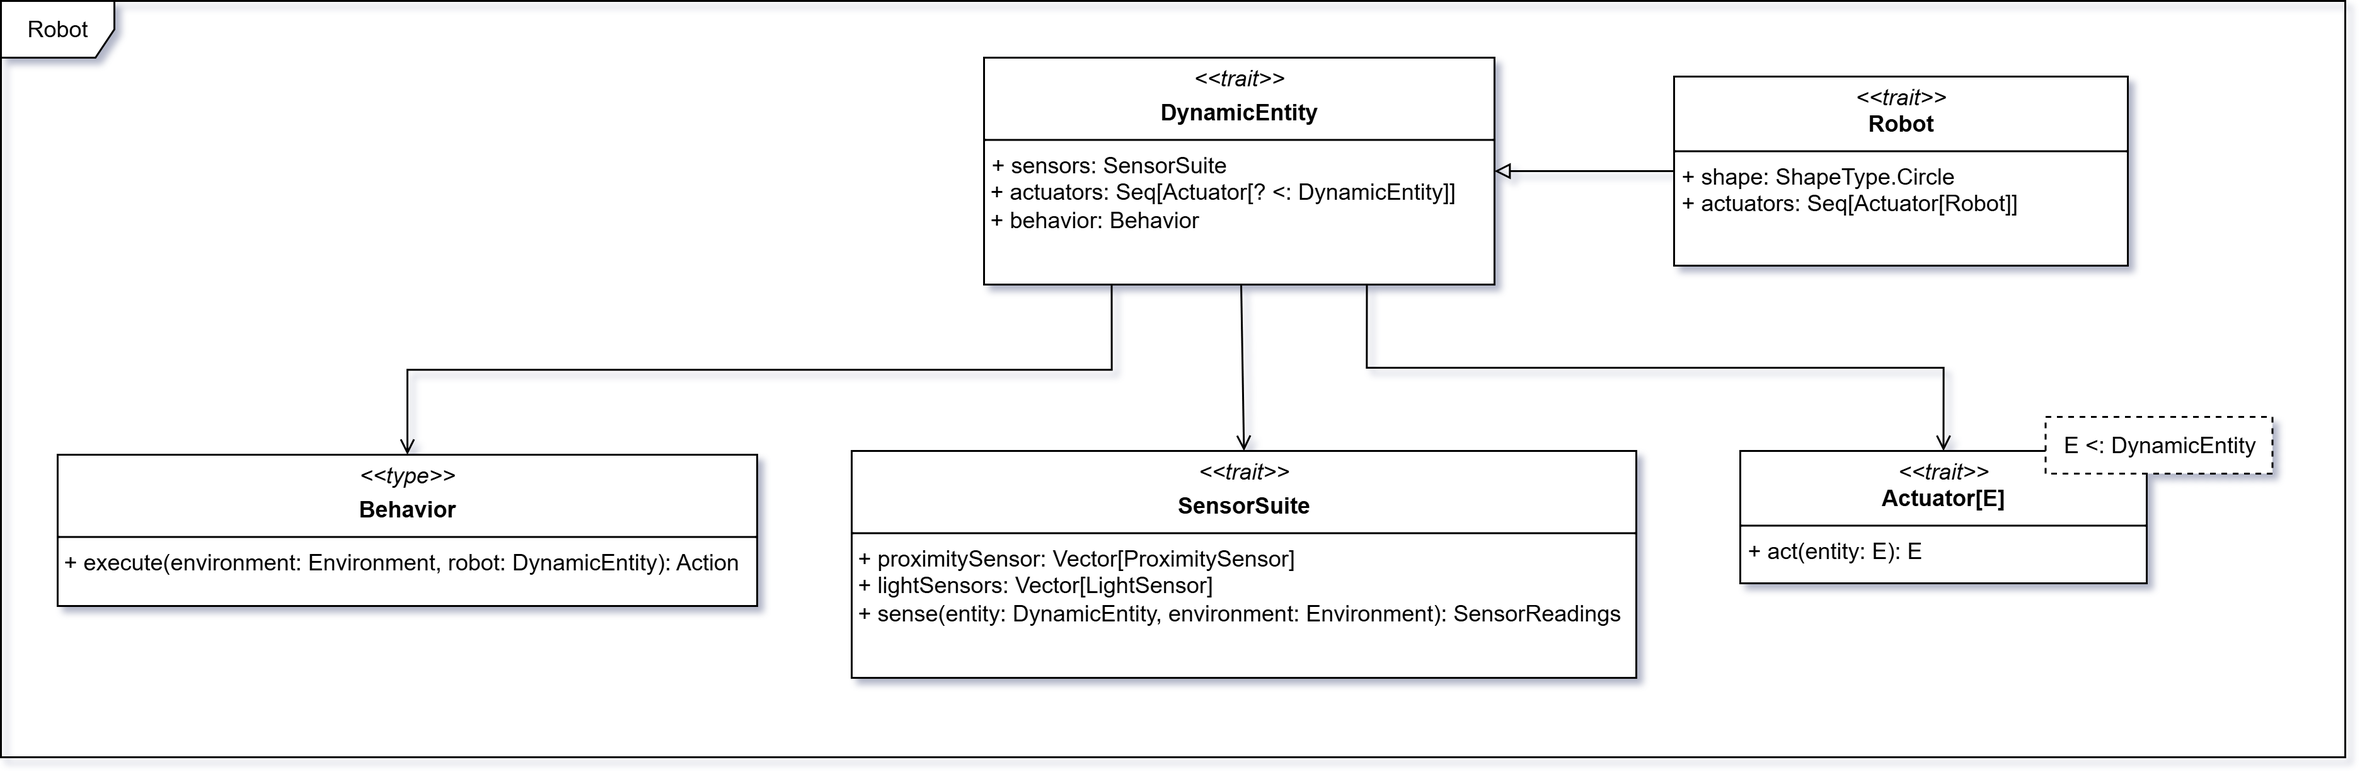
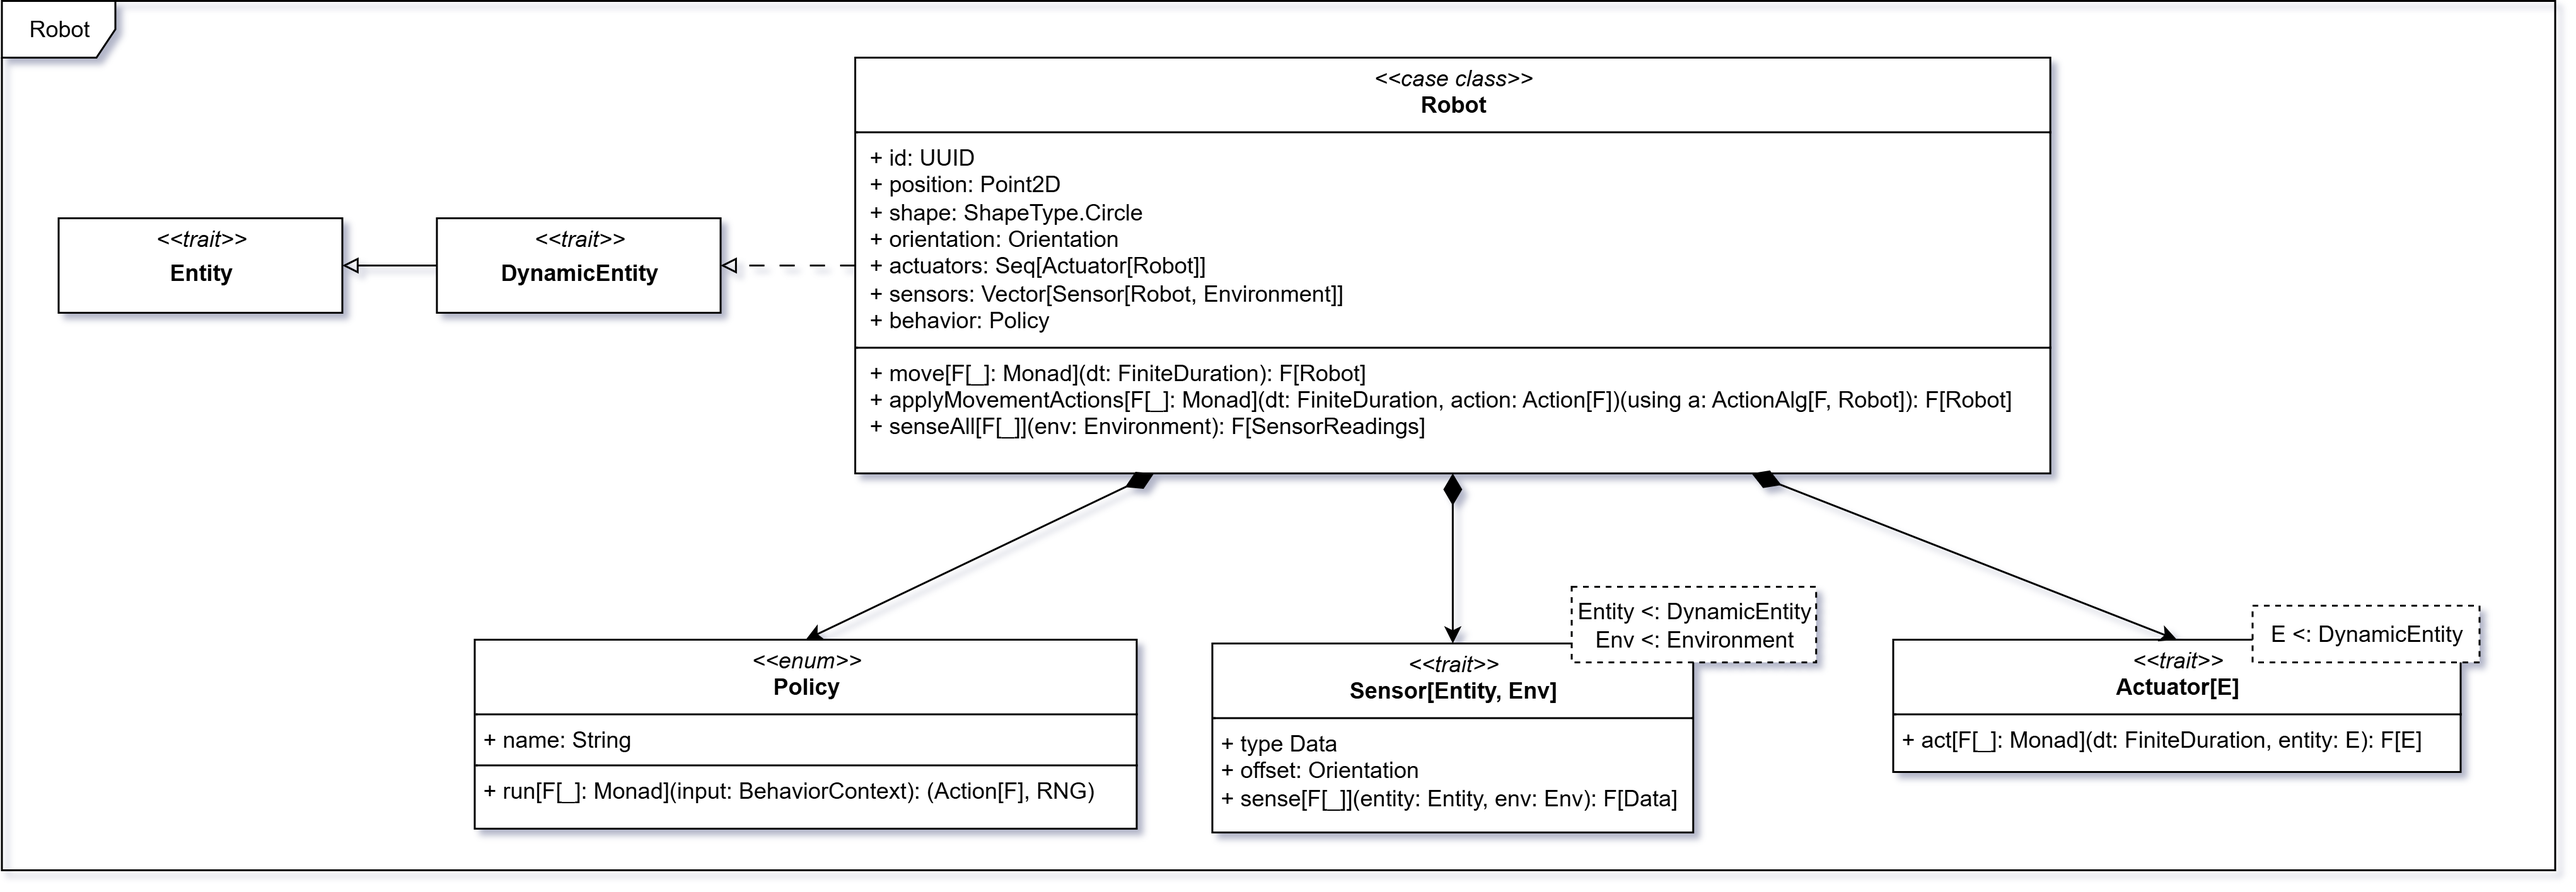
docs: update UML diagrams and add Action UML

diff --git a/docs/docs/04-detailed-design/07-action.md b/docs/docs/04-detailed-design/07-action.md
@@ -4,6 +4,8 @@ sidebar_position: 7
 
 # Action
 
+![Action](../../static/img/04-detailed-design/action.png)
+
 Per la modellazione della tipologia di azioni che è possibile svolgere dalle entità dinamiche è stato adottato un
 approccio basato sul pattern **Tagless Final**, che consente di definire in maniera astratta e composabile i
 comportamenti applicabili a un’entità senza vincolarsi a una specifica implementazione.
